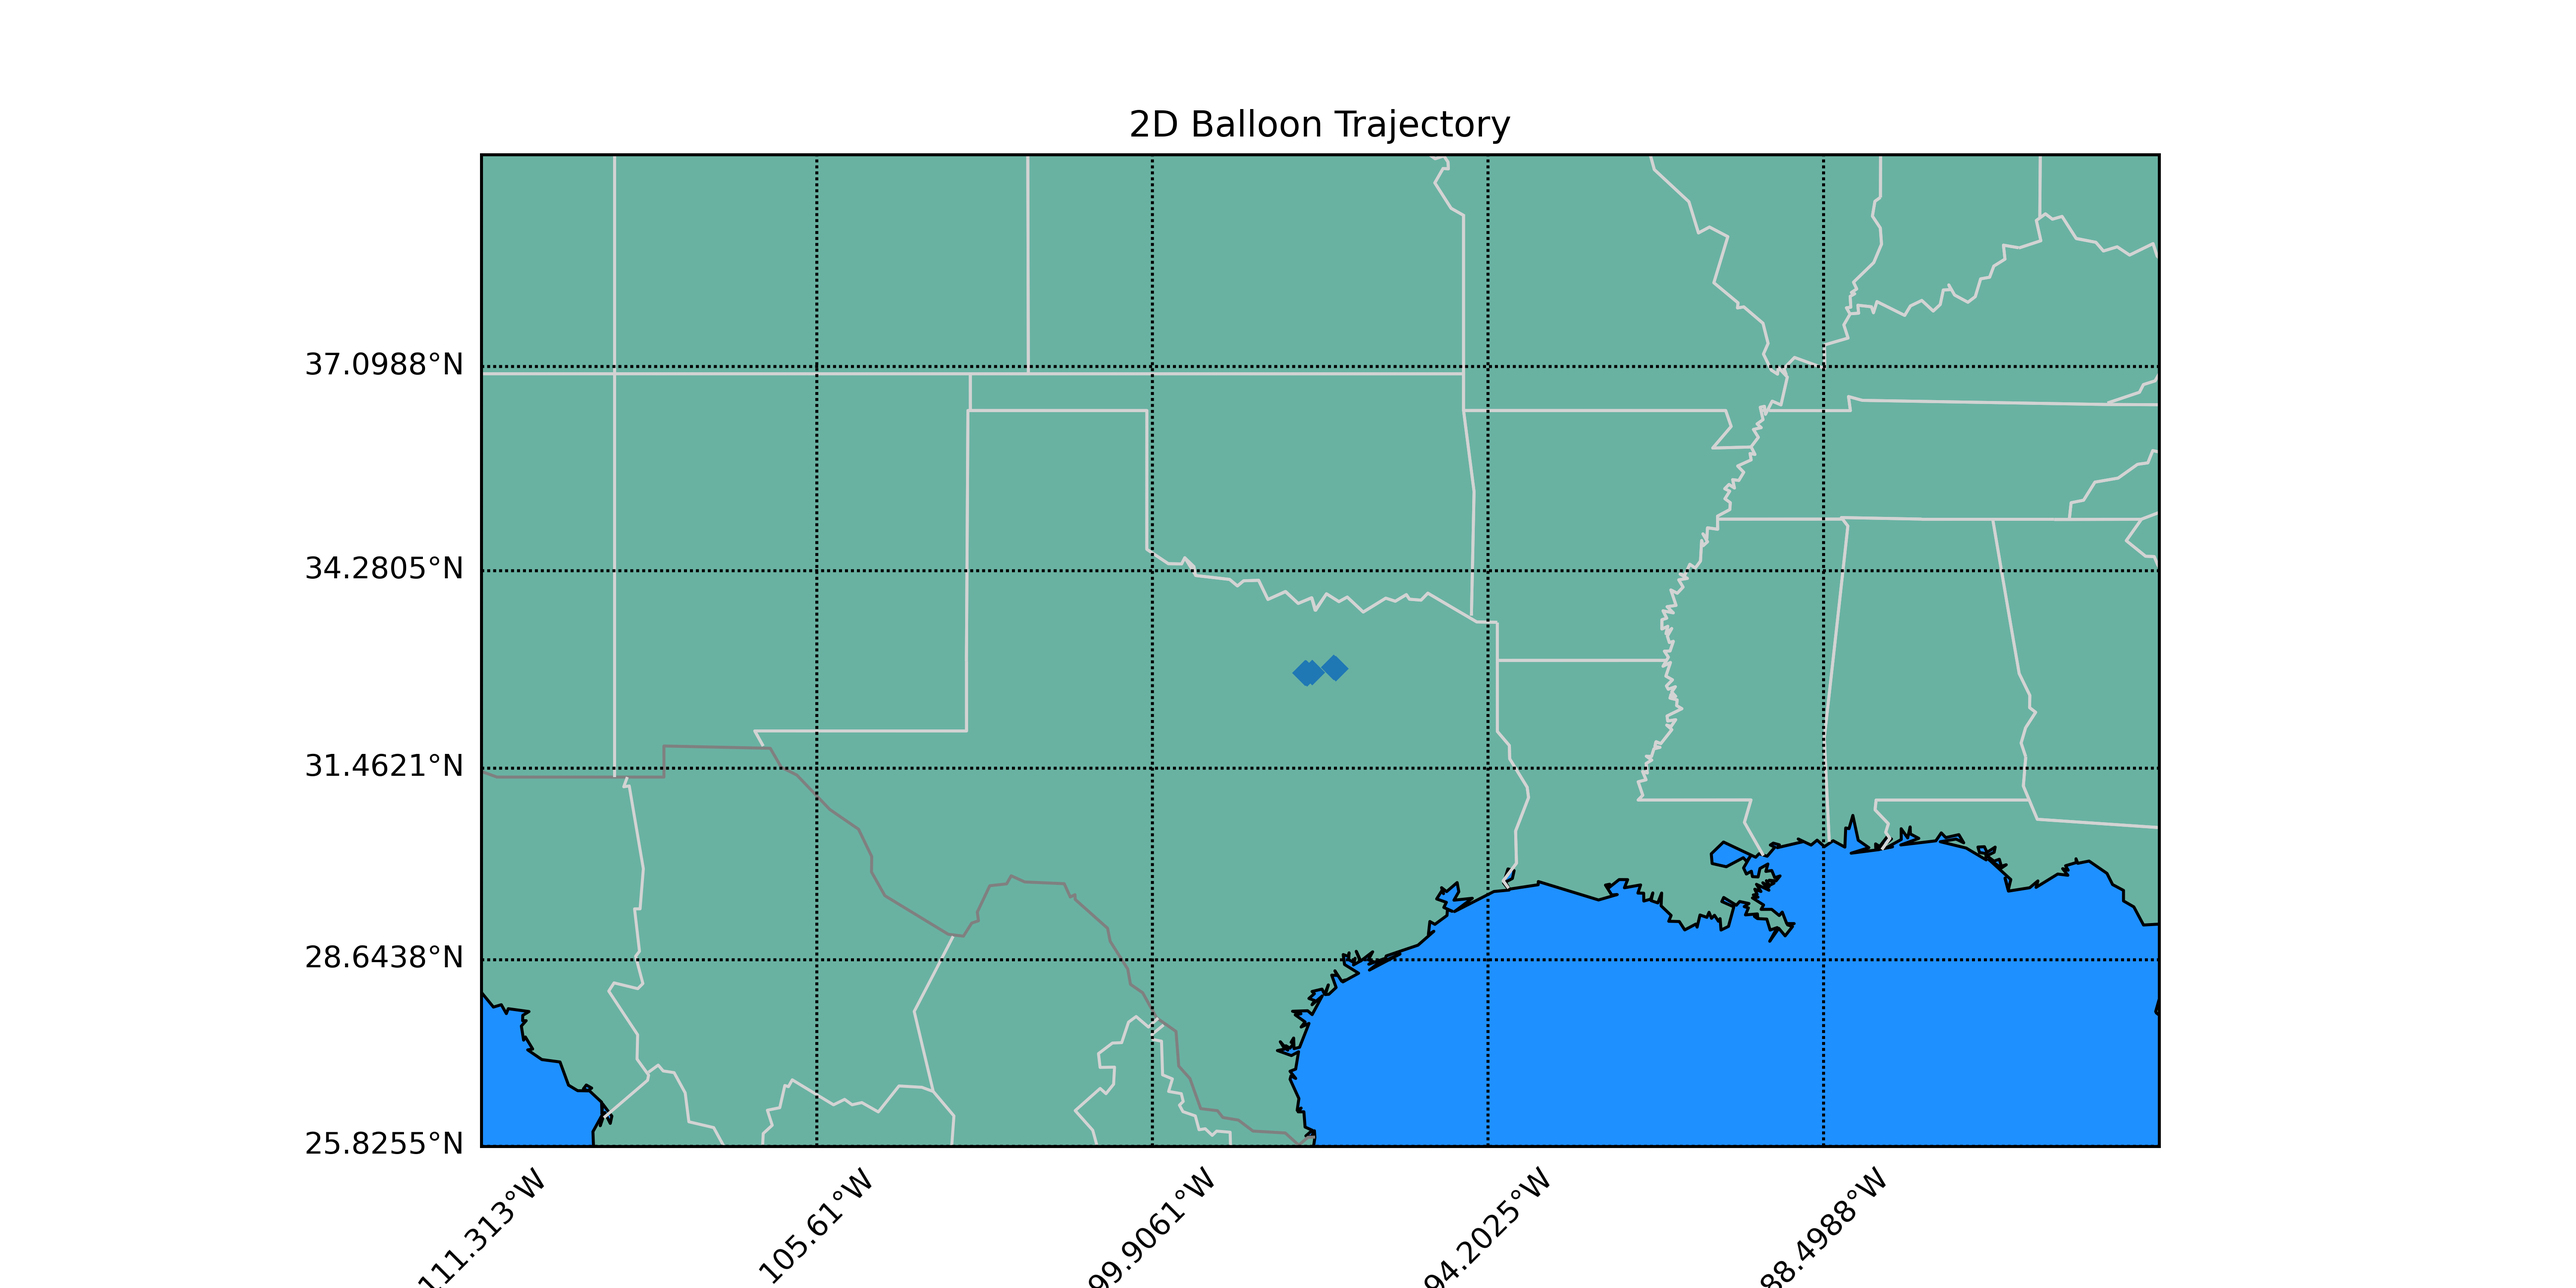
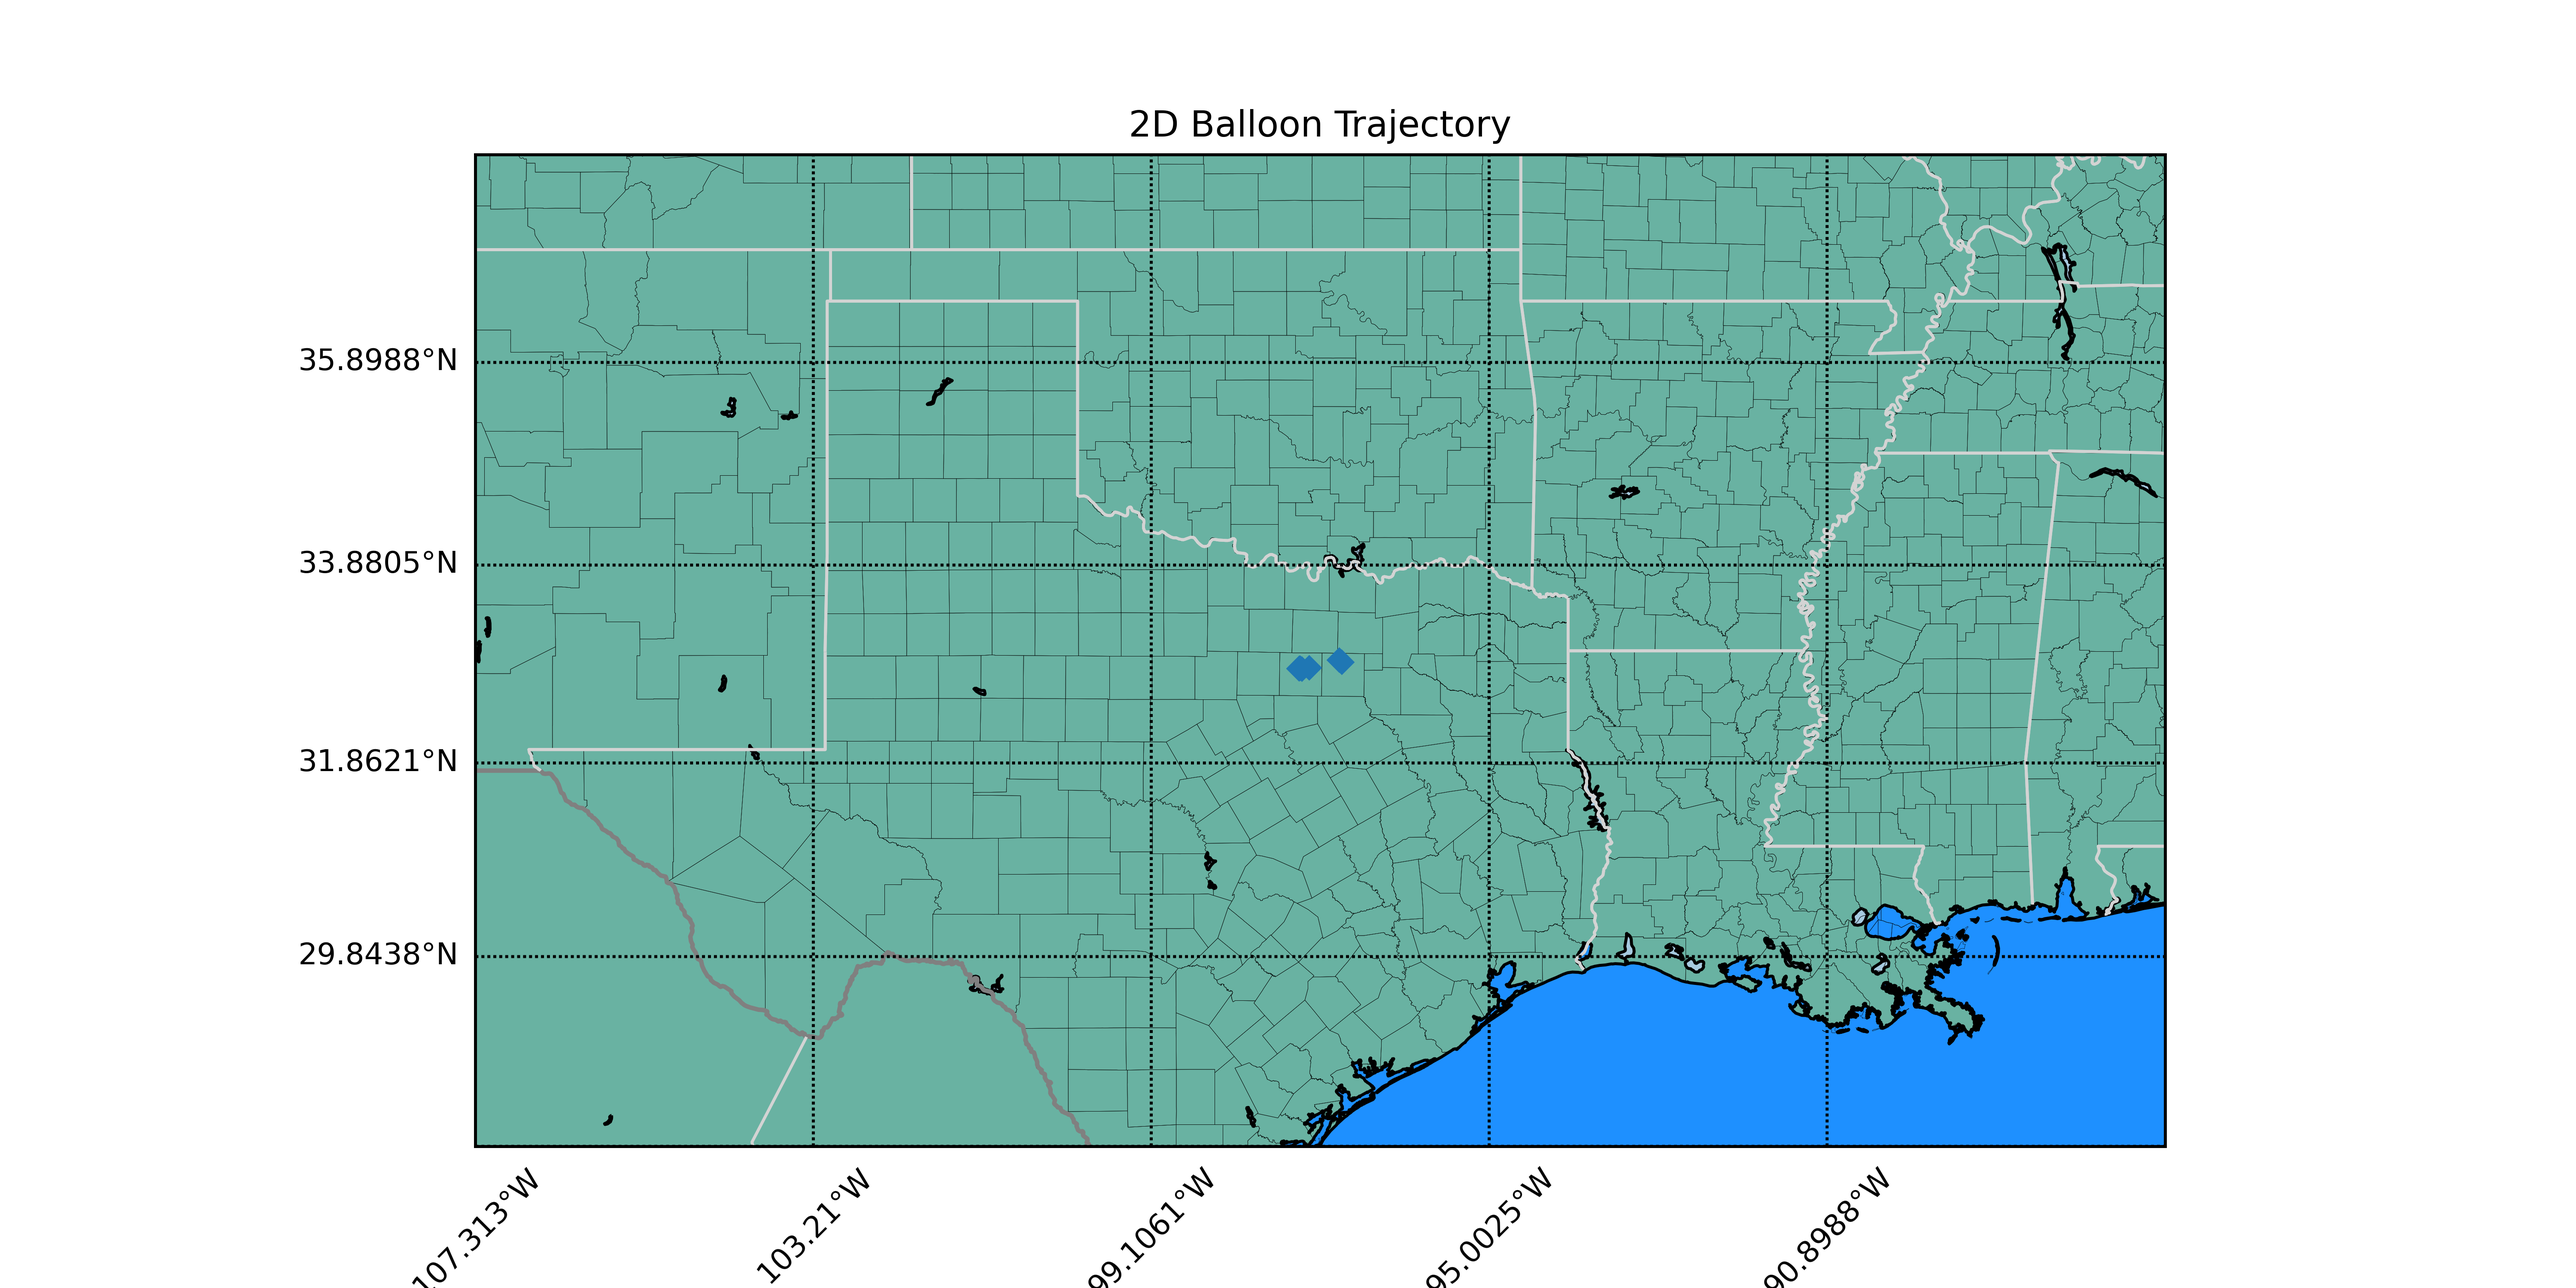
fixed the test code, reorganized

diff --git a/2D_plot.py b/2D_plot.py
@@ -1,0 +1,47 @@
+#!/usr/bin/python
+import os
+import matplotlib.pyplot as plt
+import numpy as np
+import pandas as pd
+from pyproj import geodesic_version_str
+os.environ['PROJ_LIB'] = '/Users/hunlr/anaconda3/envs/cartopy_env/Library/share/proj'
+from mpl_toolkits.basemap import Basemap
+
+# Read in data for usage
+data = pd.read_csv("data/20221001_00z.csv")
+
+# Parse out the data for usage
+lats = data["latitude"]
+lons = data["longitude"]
+
+# How much to zoom from coordinates (in degrees)
+lat_zoom_scale = 5
+lon_zoom_scale = 10
+
+# Setup the bounding box for the zoom and bounds of the map
+bbox = [np.min(lats) - lat_zoom_scale, np.max(lats) + lat_zoom_scale,\
+        np.min(lons) - lon_zoom_scale, np.max(lons) + lon_zoom_scale]
+
+plt.figure(figsize=(12,6))
+# Define the projection, scale, the corners of the map, and the resolution.
+m = Basemap(projection = 'merc', llcrnrlat = bbox[0], urcrnrlat = bbox[1],\
+            llcrnrlon = bbox[2], urcrnrlon = bbox[3], lat_ts = 10, resolution = 'h') # c = crude, l = low, i = intermediate, h = high 
+
+# Draw the world around us
+m.fillcontinents(color = '#69b2a2', lake_color = '#A6CAE0') 
+m.drawcoastlines()
+m.drawcountries(color = 'grey', linewidth = 1.5)
+m.drawstates(color = 'lightgrey', linewidth = 1)
+m.drawcounties()
+
+# draw parallels, meridians, and color boundaries
+m.drawparallels(np.arange(bbox[0] ,bbox[1] ,(bbox[1] - bbox[0]) / 5), labels = [1, 0, 0, 0])
+m.drawmeridians(np.arange(bbox[2], bbox[3], (bbox[3] - bbox[2]) / 5), labels = [0, 0 ,0 ,1], rotation = 45)
+m.drawmapboundary(fill_color='dodgerblue')
+
+# build and plot coordinates onto map
+x,y = m(lons, lats)
+m.plot(x, y, 'D', markersize = 5)
+plt.title("2D Balloon Trajectory")
+plt.savefig('2D-trajectory.png', format = 'png', dpi = 500)
+plt.show()
